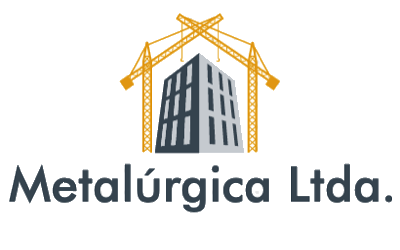
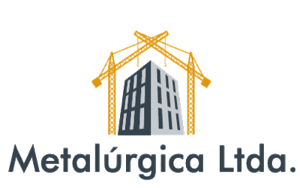
Cambios de Registro de usuario con la foto
Cambios de Registro de usuario con la foto

Changed region(s): [[0.0, 0.0532, 0.72, 0.9574], [0.72, 0.6383, 0.99, 0.9309]]

diff --git a/src/componentes/usuario/UsuarioRegistro.jsx b/src/componentes/usuario/UsuarioRegistro.jsx
@@ -1,17 +1,18 @@
 import { Fragment } from "react";
 import DefaultContentMensaje from "../DefaultContentMensaje";
-// import logo from '../image/Foto.jpg';
+import logo from '../../image/Foto.2.jpg';
 
 export default function UsuarioRegistro() {
     return (
         <Fragment>
-            <div className="container">
-                {/* <div>
-                    <img className="mb-4" alt="" width="140" height="100" src={logo} />
-                </div> */}
-                <div className="text-center">
-                    <br></br>
-                    <br></br>
+            <div className="text-center">
+            <div className="container-">
+                <br></br>
+                <br></br>
+                <div>
+                    <img className="mb-4" alt="" width="300" height="188" src={logo} />
+                </div>
+                <div className="text-center">  
                     <h3>Iniciar sesión</h3>
                     <br></br>
                 </div>
@@ -36,7 +37,7 @@ export default function UsuarioRegistro() {
                         </p>
                     </div>
                     </div>
-                    
+            </div>    
                  
             </div>
         </Fragment>

diff --git a/src/componentes/Encabezado.jsx b/src/componentes/Encabezado.jsx
@@ -8,7 +8,7 @@ export default function Encabezado() {
         <Fragment>
             <header className="navbar navbar-dark sticky-top bg-dark flex-md-nowrap p-0 shadow">
                 <div>
-                    <img className="mb-auto" alt="" width="72" height="57" src={logo} />
+                    <img className="mb-auto" alt="" width="90" height="70" src={logo} />
                     <a className="fs-4 navbar-brand bg-dark col-md-3 col-lg-2 me-0 px-3" href="/">{CONFIG.NOMBRE_EMPRESA}</a>
                 </div>
                 <ul className="nav nav-pills">
